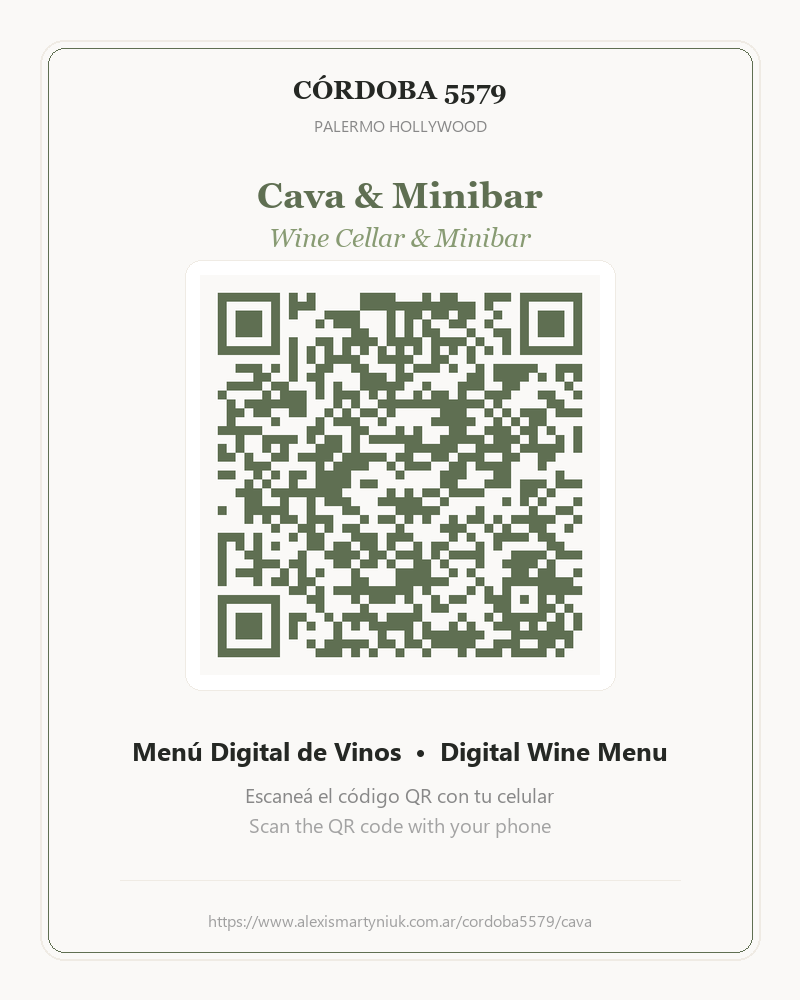
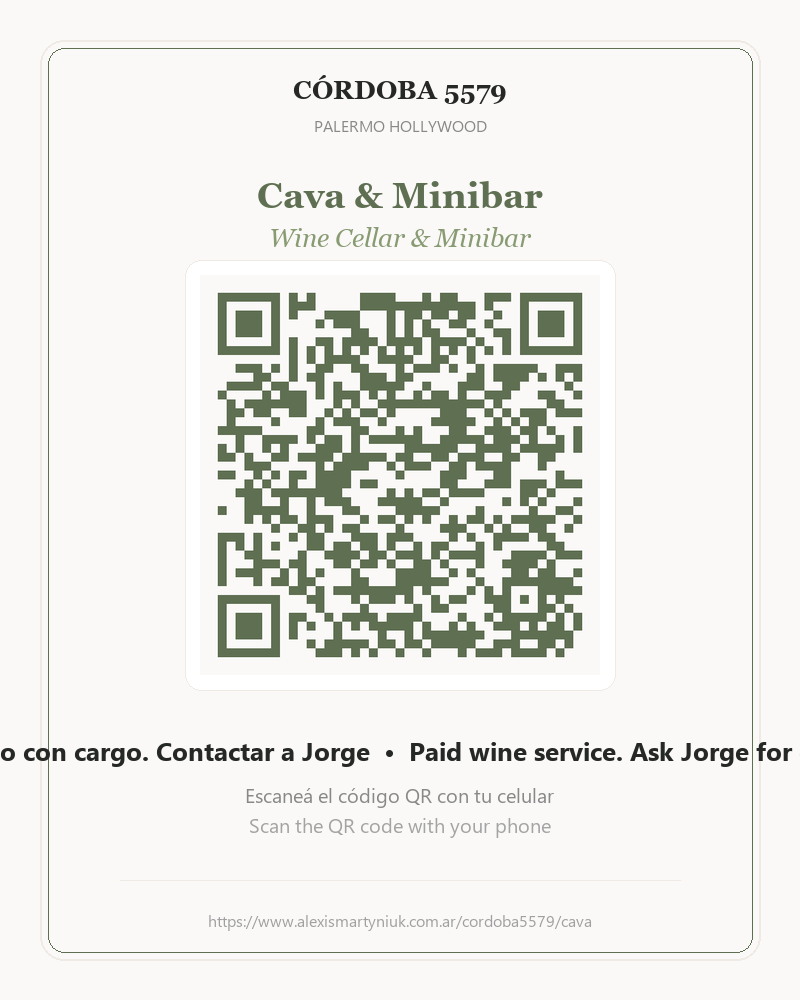
Content: Update Cava translation texts and QR labels to reflect paid service notice

Changed region(s): [[0.0, 0.744, 1.0, 0.775]]

diff --git a/src/locales/es.ts b/src/locales/es.ts
@@ -162,7 +162,8 @@ export const es = {
   cava_backBtn: "Volver al Inicio",
   cava_headerTag: "Cava & Minibar (Costo Adicional)",
   cava_howItWorksTitle: "¿Cómo funciona?",
-  cava_howItWorksText: "Disfrutá libremente de los vinos y bebidas disponibles. Al momento de tu check-out, simplemente informale a Jorge qué consumiste para coordinar el cobro.",
+  cava_howItWorksText: "El uso de la cava de vinos es de pago. Ponete en contacto por WhatsApp con el anfitrión Jorge Orlando para que te brinde la clave de acceso, precios y detalles de la carta de vinos.",
+
   cava_disclaimer: "Los precios están expresados en dólares estadounidenses (USD). Se abonan al finalizar la estadía.",
   cava_quantityLabel: "Disponibles en unidad: ",
   cava_priceLabel: "Precio",

diff --git a/src/locales/en.ts b/src/locales/en.ts
@@ -162,7 +162,8 @@ export const en = {
   cava_backBtn: "Back to Home",
   cava_headerTag: "Wine Cellar & Minibar (Extra Cost)",
   cava_howItWorksTitle: "How it works?",
-  cava_howItWorksText: "Enjoy the available wines and drinks freely. At checkout, simply let Jorge know what you consumed to coordinate payment.",
+  cava_howItWorksText: "The use of the wine cellar is paid. Please contact your host Jorge Orlando via WhatsApp so he can provide you with the access code, prices, and wine list details.",
+
   cava_disclaimer: "Prices are in US Dollars (USD). Paid upon checkout.",
   cava_quantityLabel: "Available in unit: ",
   cava_priceLabel: "Price",

diff --git a/scripts/generate_qrs.py b/scripts/generate_qrs.py
@@ -33,11 +33,12 @@ CODES = [
         "url": f"{BASE_URL}/cava",
         "label_es": "Cava & Minibar",
         "label_en": "Wine Cellar & Minibar",
-        "sublabel_es": "Menú Digital de Vinos",
-        "sublabel_en": "Digital Wine Menu",
+        "sublabel_es": "Servicio con cargo. Contactar a Jorge",
+        "sublabel_en": "Paid wine service. Ask Jorge for details",
         "color": "#5F6F52",         # Olive green
         "bg": "#FAF9F7",
     },
+
     {
         "name": "whatsapp",
         "url": WHATSAPP_URL,
